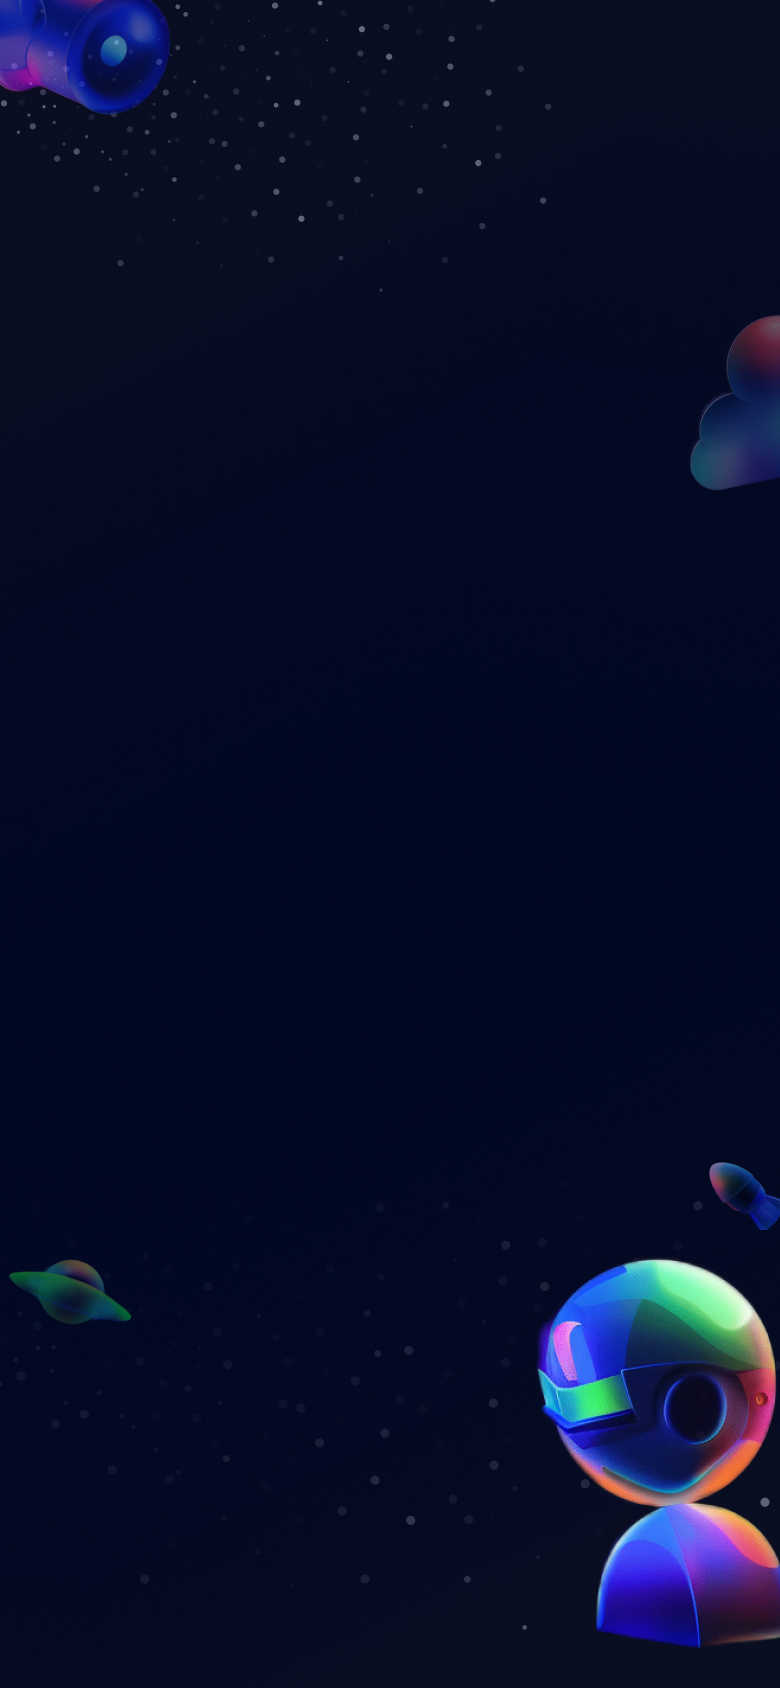
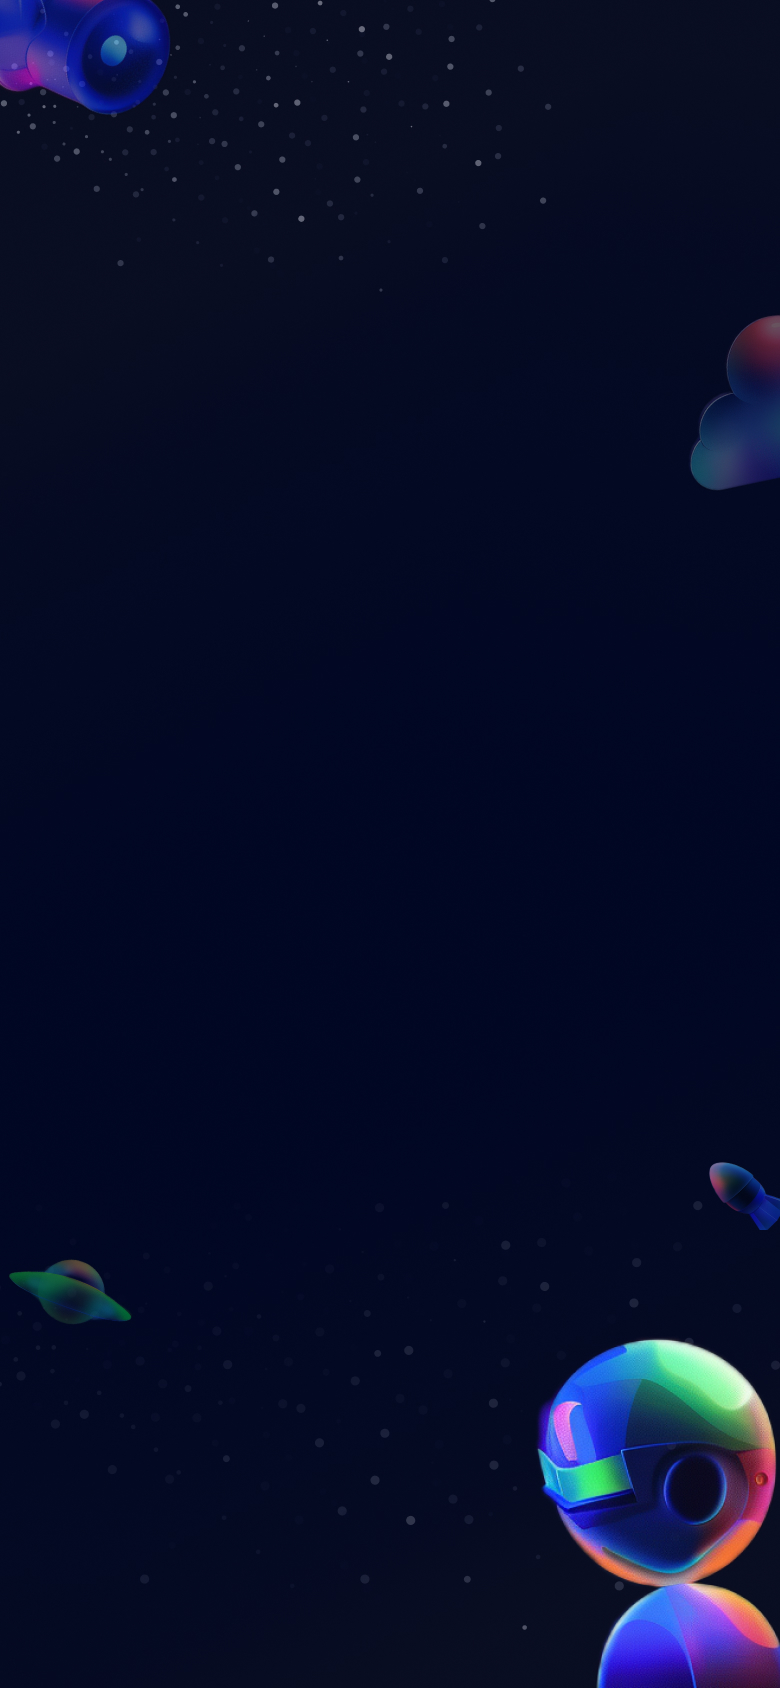
Login page for `x.qiniu.com` (#10)

Changed region(s): [[0.6769, 0.7393, 1.0, 1.0]]

diff --git a/web/src/auth/oauth-customization/CustomForm.js b/web/src/auth/oauth-customization/CustomForm.js
@@ -1,4 +1,6 @@
+import i18next from "i18next";
 import {useEffect, useState} from "react";
+import {Helmet} from "react-helmet";
 import bgMobile from "./bg-mobile.jpg";
 import LanguageSelect from "../../common/select/LanguageSelect";
 import {LoginButton} from "./LoginButton";
@@ -41,7 +43,7 @@ const CustomFormDesktop = ({application}) => {
           }}
         >
           {filterProviders(application.providers).map((provider) => (
-            <LoginButton key={provider.type} application={application} provider={provider.provider} />
+            <LoginButton key={provider.name} application={application} provider={provider.provider} />
           ))}
         </div>
       </div>
@@ -49,29 +51,32 @@ const CustomFormDesktop = ({application}) => {
   );
 };
 
-const GoPlusSvg = () => (
-  <svg
-    width="141"
-    height="36"
-    viewBox="0 0 141 36"
-    fill="none"
-    xmlns="http://www.w3.org/2000/svg"
-  >
-    <g clipPath="url(#clip0_92_221)">
-      <path
-        fillRule="evenodd"
-        clipRule="evenodd"
-        d="M18.8162 -0.247803C8.86808 -0.247803 0.774902 7.84537 0.774902 17.7917C0.774902 27.7395 8.86808 35.8331 18.8162 35.8335H32.9696V27.5074H18.8162C13.4595 27.5074 9.10109 23.149 9.10109 17.7922C9.10109 12.4368 13.4595 8.07839 18.8162 8.07839H46.5697V-0.247803H18.8162ZM38.5201 22.0944V35.7875H46.8462V20.7071C46.8462 16.8809 43.7334 13.7686 39.9077 13.7686H18.8162V22.0944H38.5201ZM70.4412 -0.247803C60.4936 -0.247803 52.4017 7.84537 52.4017 17.7917C52.4017 27.7395 60.4936 35.8331 70.4412 35.8331H84.3179C94.2655 35.8331 102.357 27.7399 102.357 17.7917C102.357 7.84537 94.2662 -0.247803 84.3179 -0.247803H70.4412ZM70.4417 27.5069C65.0851 27.5069 60.728 23.1483 60.728 17.7917C60.728 12.4364 65.0847 8.07792 70.4417 8.07792H84.3183C89.6751 8.07792 94.0322 12.4368 94.0322 17.7917C94.0322 23.1483 89.6751 27.5069 84.3183 27.5069H70.4417ZM121.207 7.14187L121.178 -0.150457L114.928 -0.12567L114.957 7.16666L107.666 7.19551L107.691 13.4459L114.984 13.4157L115.012 20.708L121.263 20.6828L121.233 13.3905L128.525 13.3603L128.5 7.11168L121.207 7.14187Z"
-        fill="white"
-      />
-    </g>
-    <defs>
-      <clipPath id="clip0_92_221">
-        <rect width="141" height="36" fill="white" />
-      </clipPath>
-    </defs>
+const GoPlusLogo = () => (
+  <svg width="170" height="42" viewBox="0 0 170 42" fill="none" xmlns="http://www.w3.org/2000/svg">
+    <path fillRule="evenodd" clipRule="evenodd" d="M18.0767 3.06311C8.10901 3.06311 0 11.1097 0 20.9989C0 30.8894 8.10901 38.9365 18.0767 38.9369H32.2577V30.6587H18.0767C12.7095 30.6587 8.34249 26.3253 8.34249 20.9993C8.34249 15.6748 12.7095 11.3414 18.0767 11.3414H45.8844V3.06311H18.0767ZM37.8191 25.2768V38.8912H46.1615V23.8975C46.1615 20.0933 43.0426 16.9989 39.2094 16.9989H18.0767V25.2768H37.8191ZM69.8027 3.06311C59.8355 3.06311 51.7278 11.1097 51.7278 20.9989C51.7278 30.8894 59.8355 38.9365 69.8027 38.9365H83.7065C93.6736 38.9365 101.781 30.8898 101.781 20.9989C101.781 11.1097 93.6742 3.06311 83.7065 3.06311H69.8027ZM69.8031 30.6583C64.4361 30.6583 60.0704 26.3247 60.0704 20.9989C60.0704 15.6744 64.4356 11.341 69.8031 11.341H83.7069C89.0741 11.341 93.4398 15.6748 93.4398 20.9989C93.4398 26.3247 89.0741 30.6583 83.7069 30.6583H69.8031ZM120.668 10.4103L120.639 3.1599L114.376 3.18454L114.405 10.4349L107.1 10.4636L107.126 16.6781L114.432 16.648L114.461 23.8984L120.724 23.8733L120.693 16.623L128 16.5929L127.975 10.3803L120.668 10.4103Z" fill="white" />
   </svg>
 );
+
+function XBuilderLogoSlogan() {
+  return (
+    <>
+      <svg width="65" height="63" viewBox="0 0 65 63" fill="none" xmlns="http://www.w3.org/2000/svg">
+        <path d="M14.5982 53.8243L14.5757 53.8488L16.3052 55.5782L16.3277 55.5538L16.9175 56.1437L10.3706 59.9708L4.25149 62.8341C3.4648 63.2018 2.6484 62.3854 3.01614 61.5988L5.87942 55.4796L9.69094 48.9171L14.5982 53.8243ZM58.4497 15.7198L19.5542 54.5978C19.5449 54.6071 19.5343 54.6155 19.523 54.6222L19.1021 54.8673L18.0581 53.8243L57.3062 14.5763L58.4497 15.7198ZM55.5767 12.8468L16.3286 52.0948L10.9624 46.7277L11.2095 46.3038C11.2162 46.2923 11.2245 46.281 11.2339 46.2716L50.1265 7.39661L55.5767 12.8468Z" fill="white" />
+        <path d="M51.6177 5.88419L53.256 4.10984C55.4832 1.69782 58.2511 1.35345 61.3197 4.11083C64.8845 7.51304 63.5457 10.4342 61.3188 12.8459L59.9094 14.1465L51.6177 5.88419Z" fill="white" />
+        <path d="M51.6177 5.88419L53.256 4.10984C55.4832 1.69782 58.2511 1.35345 61.3197 4.11083C64.8845 7.51304 63.5457 10.4342 61.3188 12.8459L59.9094 14.1465L51.6177 5.88419Z" fill="white" />
+        <path d="M63.166 52.9716C65.457 55.2658 65.457 58.985 63.166 61.2792C60.875 63.5734 57.1602 63.5734 54.8692 61.2792L17.0742 23.4335L25.377 15.1307L63.166 52.9716ZM27.3018 0.0799666C27.4264 -0.03006 27.6159 -0.0269465 27.7334 0.0907088L31.2373 3.5995C31.84 4.20325 31.8401 5.18237 31.2373 5.78602L23.6406 13.3915L23.6484 13.3993L15.3457 21.702L15.3438 21.7001L9.62208 27.4306C9.01919 28.0341 8.04136 28.0342 7.43849 27.4306L0.45216 20.4345C-0.150736 19.8307 -0.150705 18.8517 0.45216 18.2479L16.2656 2.41297C16.3486 2.32989 16.4712 2.3012 16.583 2.3368C17.6465 2.67542 18.7796 2.85829 19.9551 2.85829C22.7714 2.85825 25.343 1.80888 27.3018 0.0799666Z" fill="white" />
+      </svg>
+      <p style={{margin: "0"}}>在 XBuilder<br />创作并分享你的作品</p>
+    </>
+  );
+}
+
+function LogoSlogan() {
+  if (process.env.TARGET === "xbuilder") {
+    return <XBuilderLogoSlogan />;
+  }
+  return <GoPlusLogo />;
+}
 
 export const CustomFormMobile = ({application}) => {
 
@@ -93,24 +98,40 @@ export const CustomFormMobile = ({application}) => {
           top: 0,
           left: 0,
           right: 0,
-          bottom: 68,
+          bottom: 0,
         }}
       />
       <div
         style={{
           display: "flex",
           flexDirection: "column",
+          minHeight: "404px",
           position: "relative",
           zIndex: 1,
           gap: 48,
         }}
       >
-        <GoPlusSvg />
+        <div
+          style={{
+            display: "flex",
+            flexDirection: "column",
+            justifyContent: "center",
+            alignItems: "flex-start",
+            gap: "27px",
+            color: "#fff",
+            fontSize: "18px",
+            lineHeight: "25px",
+            fontWeight: "600",
+            letterSpacing: "0.36px",
+          }}
+        >
+          <LogoSlogan />
+        </div>
         <div
           style={{
             display: "flex",
             justifyContent: "center",
-            gap: 20,
+            gap: 24,
             flexDirection: "column",
             alignItems: "flex-start",
             width: "295px",
@@ -147,6 +168,10 @@ export const CustomForm = ({application}) => {
   const isMobile = useMediaQuery("(max-width: 768px)");
 
   return <>
+    <Helmet>
+      <title>{i18next.t("login:Sign In")}</title>
+      <link rel="icon" href={application.organizationObj?.favicon} />
+    </Helmet>
     {isMobile ? (
       <CustomFormMobile application={application} />
     ) : (

diff --git a/web/craco.config.js b/web/craco.config.js
@@ -1,45 +1,52 @@
 const CracoLessPlugin = require("craco-less");
+const webpack = require("webpack");
 
 // We use CDN for static files in production
 const staticUrl = process.env.STATIC_URL || '/'
+/**
+ * Build target, `"goplus" | "xbuilder"`
+ * - `goplus`(default): account management system for GoPlus applications
+ * - `xbuilder`: account management system for application XBuilder
+ */
+const target = process.env.TARGET || 'goplus'
 
 module.exports = {
   devServer: {
     proxy: {
       "/api": {
-        target: "http://localhost:8000",
+        target: "https://goplus-casdoor.qiniu.io",
         changeOrigin: true,
       },
       "/swagger": {
-        target: "http://localhost:8000",
+        target: "https://goplus-casdoor.qiniu.io",
         changeOrigin: true,
       },
       "/files": {
-        target: "http://localhost:8000",
+        target: "https://goplus-casdoor.qiniu.io",
         changeOrigin: true,
       },
       "/.well-known/openid-configuration": {
-        target: "http://localhost:8000",
+        target: "https://goplus-casdoor.qiniu.io",
         changeOrigin: true,
       },
       "/cas/serviceValidate": {
-        target: "http://localhost:8000",
+        target: "https://goplus-casdoor.qiniu.io",
         changeOrigin: true,
       },
       "/cas/proxyValidate": {
-        target: "http://localhost:8000",
+        target: "https://goplus-casdoor.qiniu.io",
         changeOrigin: true,
       },
       "/cas/proxy": {
-        target: "http://localhost:8000",
+        target: "https://goplus-casdoor.qiniu.io",
         changeOrigin: true,
       },
       "/cas/validate": {
-        target: "http://localhost:8000",
+        target: "https://goplus-casdoor.qiniu.io",
         changeOrigin: true,
       },
       "/scim": {
-        target: "http://localhost:8000",
+        target: "https://goplus-casdoor.qiniu.io",
         changeOrigin: true,
       }
     },
@@ -103,5 +110,12 @@ module.exports = {
         },
       }
     },
+    plugins: {
+      add: [
+        new webpack.DefinePlugin({
+          'process.env.TARGET': JSON.stringify(target)
+        })
+      ]
+    }
   }
 };

diff --git a/web/src/auth/oauth-customization/TextLoop.js b/web/src/auth/oauth-customization/TextLoop.js
@@ -1,7 +1,7 @@
 import React, {useEffect, useState} from "react";
 import {AnimatePresence, motion} from "framer-motion";
 
-const TextLoop = ({texts, duration = 2000}) => {
+const TextLoop = ({prefix, texts, duration = 2000}) => {
   const [currentIndex, setCurrentIndex] = useState(0);
   const [nextIndex, setNextIndex] = useState(1);
 
@@ -15,9 +15,6 @@ const TextLoop = ({texts, duration = 2000}) => {
   }, [texts.length, duration]);
 
   const textStyle = {
-    lineHeight: "88px",
-    fontWeight: 700,
-    fontSize: "68px",
     color: "rgba(64, 106, 255, 1)",
     whiteSpace: "nowrap",
   };
@@ -36,7 +33,7 @@ const TextLoop = ({texts, duration = 2000}) => {
           }}
           style={{position: "absolute", width: "100%", textAlign: "center"}}
         >
-          <span>for </span>
+          <span>{prefix}</span>
           <span style={textStyle}>{texts[currentIndex]}</span>
         </motion.div>
 
@@ -51,7 +48,7 @@ const TextLoop = ({texts, duration = 2000}) => {
           }}
           style={{position: "absolute", width: "100%", textAlign: "center"}}
         >
-          <span>for </span>
+          <span>{prefix}</span>
           <span style={textStyle}>{texts[nextIndex]}</span>
         </motion.div>
       </AnimatePresence>

diff --git a/web/src/auth/oauth-customization/Banner.js b/web/src/auth/oauth-customization/Banner.js
@@ -13,19 +13,30 @@ export const Banner = () => {
       justifyContent: "center",
     }}>
       <div style={{
-        lineHeight: "88px",
         fontWeight: 700,
-        fontSize: "68px",
+        fontSize: "65px",
+        lineHeight: "130%",
         color: "#fff",
         display: "flex",
         alignItems: "center",
         flexDirection: "column",
         textAlign: "center",
       }}>
-        <div>Welcome to Go+ Community</div>
-        <TextLoop
-          texts={["Engineering", "STEM Education", "Data Science"]}
-        />
+        {
+          process.env.TARGET === "xbuilder" ? (
+            <div>在 XBuilder<br /><span style={{color: "rgba(64, 106, 255, 1)"}}>创作并分享</span>你的作品</div>
+          ) : (
+            <>
+              <div>
+                Welcome to Go+ Community
+              </div>
+              <TextLoop
+                prefix="for "
+                texts={["Engineering", "STEM Education", "Data Science"]}
+              />
+            </>
+          )
+        }
       </div>
 
     </div>

diff --git a/web/src/common/select/LanguageSelect.js b/web/src/common/select/LanguageSelect.js
@@ -47,13 +47,26 @@ class LanguageSelect extends React.Component {
     return select;
   }
 
+  componentDidMount() {
+    const languageItems = this.getOrganizationLanguages(this.state.languages);
+    const currentLanguage = Setting.getLanguage();
+    if (languageItems.length > 0 && !languageItems.find((item) => item.key === currentLanguage)) {
+      Setting.setLanguage(languageItems[0].key);
+    }
+  }
+
   render() {
     const languageItems = this.getOrganizationLanguages(this.state.languages);
+    if (languageItems.length <= 1) {
+      return null;
+    }
+
     const onClick = (e) => {
       Setting.setLanguage(e.key);
     };
     const currentLanguage = Setting.getLanguage();
-    const languageName = languageItems.find((item) => item.key === currentLanguage).label;
+    const languageItem = languageItems.find((item) => item.key === currentLanguage) ?? languageItems[0];
+    const languageName = languageItem.label;
 
     return (
       <Dropdown menu={{items: languageItems, onClick}} >

diff --git a/web/src/Conf.js b/web/src/Conf.js
@@ -25,9 +25,9 @@ export const DefaultLanguage = "en";
 export const InitThemeAlgorithm = true;
 export const ThemeDefault = {
   themeType: "default",
-  colorPrimary: "#5734d3",
+  colorPrimary: "#2c84ff",
   borderRadius: 6,
   isCompact: false,
 };
 
-export const CustomFooter = null;
+export const CustomFooter = "";
